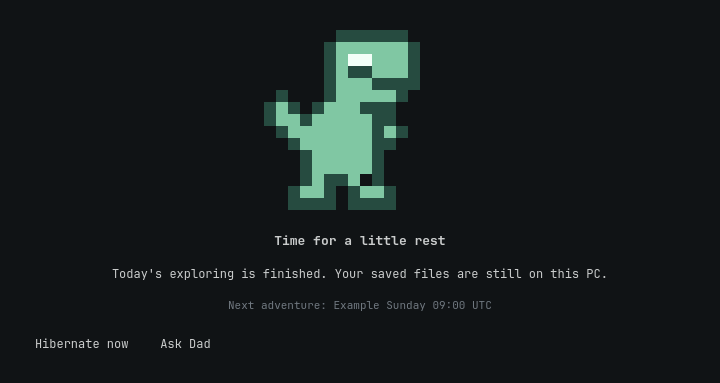
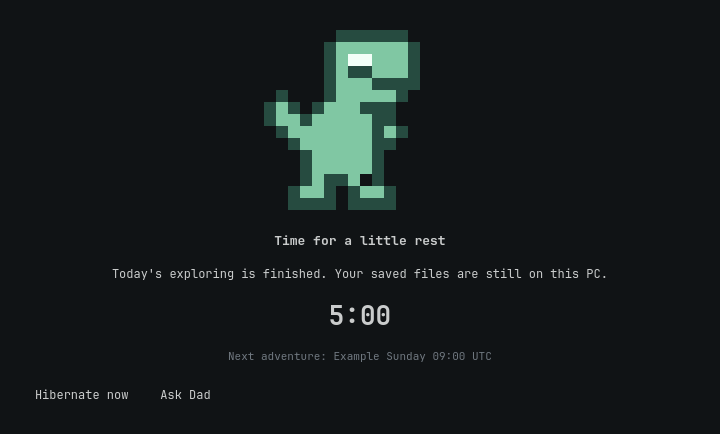
Use five-minute Dino countdown initially and on blocked wake

diff --git a/tests/qml/dino.qml b/tests/qml/dino.qml
@@ -22,7 +22,7 @@ ShellRoot {
             id: card
             anchors.centerIn: parent
             width: 720
-            state: ({version: 1, phase: "time-up", remaining: 120, nextLabel: "Example Sunday 09:00 UTC", helpers: ["mom", "dad"]})
+            state: ({version: 1, phase: "time-up", remaining: 300, nextLabel: "Example Sunday 09:00 UTC", helpers: ["mom", "dad"]})
         }
     }
     Timer {
@@ -34,7 +34,7 @@ ShellRoot {
             }
             card.grabToImage(function(result) {
                 result.saveToFile(Quickshell.env("FAMILY_LAB_PREVIEW_DIR") + "/dino-time-up.png")
-                card.state = {version: 1, phase: "blocked", remaining: 0, nextLabel: "Example Sunday 09:00 UTC", helpers: ["dad"]}
+                card.state = {version: 1, phase: "blocked", remaining: 300, nextLabel: "Example Sunday 09:00 UTC", helpers: ["dad"]}
                 finish.start()
             })
         }

diff --git a/guardian/DinoCard.qml b/guardian/DinoCard.qml
@@ -52,7 +52,7 @@ Rectangle {
             Layout.fillWidth: true
             horizontalAlignment: Text.AlignHCenter
             textFormat: Text.PlainText
-            visible: card.state.phase === "time-up" || card.state.phase === "saving"
+            visible: card.state.phase === "time-up" || card.state.phase === "saving" || (card.state.phase === "blocked" && card.state.remaining > 0)
             text: DinoFlow.countdown(card.state.remaining)
             color: Color.accent
             font { family: Style.font.family; pixelSize: Style.font.subtitle * 2; bold: true }

diff --git a/guardian/Flow.js b/guardian/Flow.js
@@ -44,3 +44,12 @@ function tick(state, elapsed) {
     if ((next.phase === "saving" || next.phase === "time-up") && next.remaining === 0) next.phase = "blocked"
     return next
 }
+
+// Synthetic resume fixture only. A trusted wake event must own this in production.
+// Staying blocked never restores the desktop or creates another save grant.
+function wakeBlocked(state) {
+    var next = JSON.parse(JSON.stringify(state))
+    next.phase = "blocked"
+    next.remaining = 300
+    return next
+}

diff --git a/guardian/preview.qml b/guardian/preview.qml
@@ -10,7 +10,7 @@ Window {
     visible: true
     title: "Family Lab Dino - design preview only"
     color: Color.notifications.background
-    property var previewState: ({version: 1, phase: "time-up", remaining: 120,
+    property var previewState: ({version: 1, phase: "time-up", remaining: 300,
                                 nextLabel: "Example schedule - Sunday 09:00 local time", helpers: ["mom", "dad"]})
     Timer {
         interval: 1000

diff --git a/docs/DINO_FLOW.md b/docs/DINO_FLOW.md
@@ -6,7 +6,7 @@ This change implements the **presentation prototype and next-permitted-time fore
 
 - Original mint-green pixel dinosaur drawn in QML code, inspired by a friendly baby-dinosaur style. No external image, remote asset or tracking.
 - Theme-bound card states: five-minute warning, time-up/save prompt, saving countdown, blocked and hibernation error. Fixed action signals only: sleep, save, ask-mom and ask-dad.
-- A pure presentation model: a two-minute no-response countdown, one explicit three-minute save period from the click, automatic expiry, and no second save action after entering saving/blocked. Asking a parent leaves the countdown running; only an approved exception should change real permission. Choosing save near the end can make the total finish-up period almost five minutes. This model is not an authorization boundary.
+- A pure presentation model: a five-minute no-response countdown, one explicit three-minute save period from the click, automatic expiry, and no second save action after entering saving/blocked. Asking a parent leaves the countdown running; only an approved exception should change real permission. Choosing save near the end can make the total finish-up period almost eight minutes. This model is not an authorization boundary.
 - Policy service `next_allowed` metadata for a blocked learner, using its actual timezone, windows, daily totals and already-approved extra minutes. Real UTC-minute iteration handles missing/repeated local times at DST. The search covers the next eight days; no result is shown as “ask a parent,” not an invented reopening time. Pending requests and future policy changes cannot be predicted.
 - New policy defaults use a 180-second grace. **Existing policies retain their configured grace**; this does not migrate a family's allowance or modify installed files.
 - Read-only `parental/family-lab-policy hibernation-check` probes logind's CanHibernate. Even “yes” returns `ready_for_family_lab: false`: a real driver/swap/resume test and secure guard integration are still required. It never calls Hibernate, systemctl hibernate, suspend or shutdown.
@@ -29,7 +29,7 @@ The last test uses an isolated temporary home/offscreen backend, imports the ins
 
 ## Required next integration
 
-1. Persist a root-authoritative finish episode with a two-minute initial deadline and one available save action. That action may replace the initial deadline with three minutes from its first accepted click, once only. Restart/resume/repeated clicks must not create another grant. Parent-approved exceptions remain separate.
+1. Persist a root-authoritative finish episode with a five-minute initial deadline and one available save action. That action may replace the initial deadline with three minutes from its first accepted click, once only. Restart/resume/repeated clicks must not create another grant. Parent-approved exceptions remain separate.
 2. Establish a protected lock/resume surface and a restricted fresh-login path. An ordinary fullscreen QML window is dismissible and not enforcement. Authentication must use the real PAM/lock integration; do not collect passwords in this prototype. A correct password must not expose desktop content while policy remains blocked.
 3. Add a narrowly authenticated learner action channel for the selected subject. A learner may acknowledge/save/request help, never change limits, approve their own exception or invoke arbitrary root power commands. Display actions only for actually enrolled helper routes.
 4. Replace termination only behind an explicit verified end-action choice. On the child's dedicated PC, lock before hibernating, then check policy again before unlocking on resume. Do not close the session first. If hibernation fails, retain the protected surface and report the error; no silent poweroff fallback. Never hibernate Mom's adult workstation as a side effect of her helper role.
@@ -40,7 +40,9 @@ The last test uses an isolated temporary home/offscreen backend, imports the ins
 
 Before sleeping, the protected guard must already cover the learner session. Waking during blocked hours must return to that guard, showing the next permitted date/time, Hibernate now and the enrolled Ask Mom/Dad actions. A correct account password confirms identity; it does not grant more screen time. The desktop must remain concealed until both authentication and current policy allow access. Resume is an existing session, so a fresh-login PAM check alone does not provide this.
 
-The same finish episode survives wake/restart: waking must not provide another three-minute save option. Parent approval can allow an exception. If the next session is already permitted, normal authentication can restore access. This behavior, including actual automatic hibernation, still requires the protected guard and hardware acceptance tests above; the preview only changes its displayed phase.
+Each genuine wake during blocked hours starts a fresh five-minute countdown on the protected screen, then requests hibernation again if access is still blocked. Hibernate now acts immediately. Asking Mom/Dad sends a request while the countdown continues; a button click alone does not grant unlimited awake time or desktop access. The production controller must distinguish a genuine wake from restarting the UI so repeated launches cannot reset this timer.
+
+The same finish episode survives wake/restart: waking must not provide another three-minute save option. Parent approval can allow an exception. If the next session is already permitted, normal authentication can restore access. This behavior, including actual automatic hibernation, still requires the protected guard and hardware acceptance tests above; the preview only changes its displayed phase. The `wakeBlocked` model fixture and rendered blocked card demonstrate the five-minute wake countdown without listening for actual wake events or issuing power commands.
 
 ## Wording and guarantees
 
